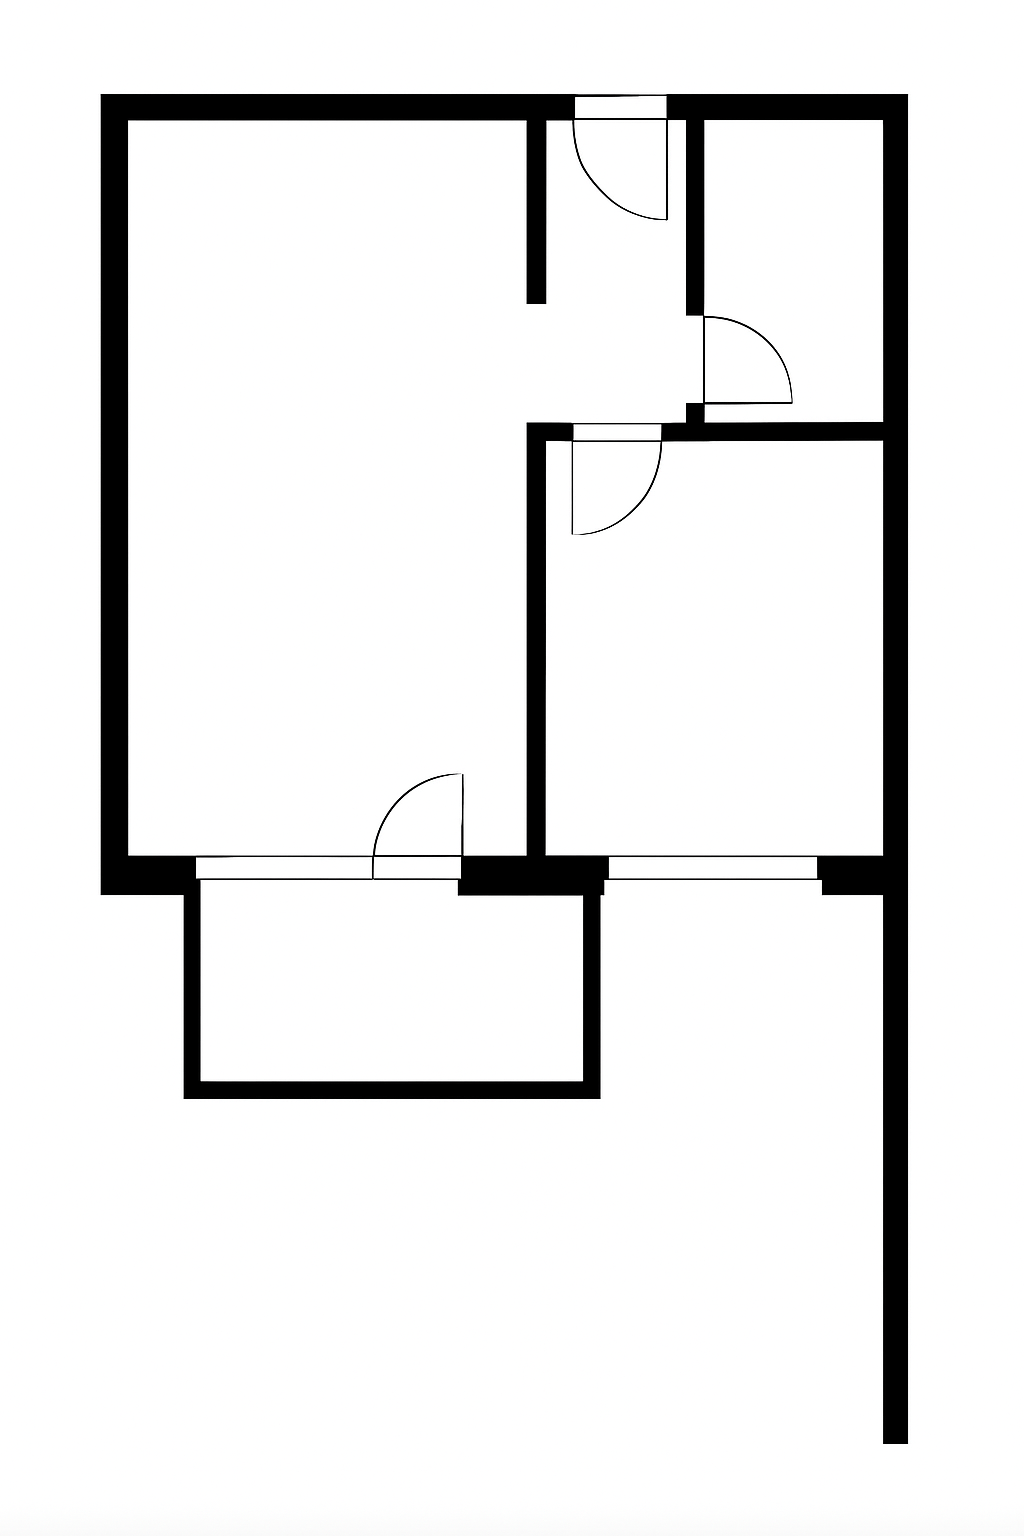
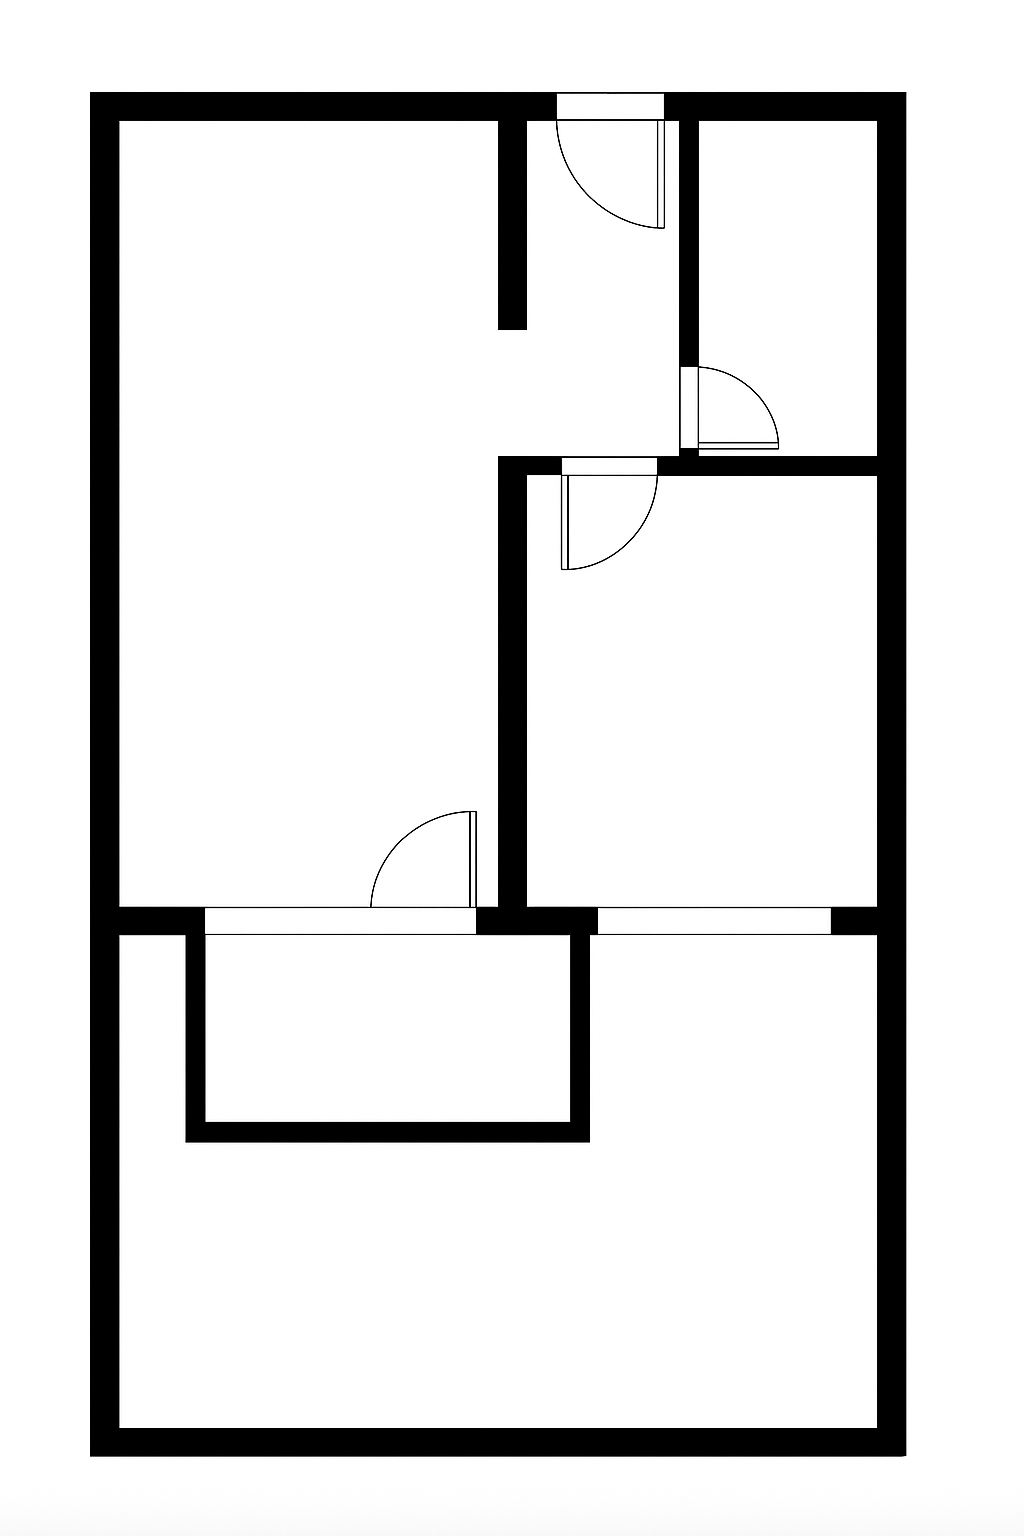
Fix AI prompt for better wall detection

Changed region(s): [[0.0625, 0.0625, 0.875, 0.9688], [0.4688, 0.0625, 0.5938, 0.2188], [0.3438, 0.5312, 0.4062, 0.5938]]

diff --git a/generate_with_ai_preprocessing.py b/generate_with_ai_preprocessing.py
@@ -60,7 +60,7 @@ class AIEnhancedOBJGenerator:
                 image_data = base64.b64encode(image_file.read()).decode('utf-8')
             
             # Use gpt-image-1 with images/edits endpoint as recommended
-            edit_prompt = """Create a clean architectural floorplan: Remove ALL furniture, decorations, text, room labels, and symbols. Convert windows into solid walls. Keep only structural walls as thick black lines on pure white background. Make it look like a simple architectural blueprint showing only the room layout and wall structure."""
+            edit_prompt = """Remove all furniture, leave only walls and doors. Make walls thick black lines on white background. Remove all text, labels, and decorative elements. Fill windows to show continuous walls."""
 
             # Use the correct gpt-image-1 model with image edit
             response = self.openai_client.images.edit(
